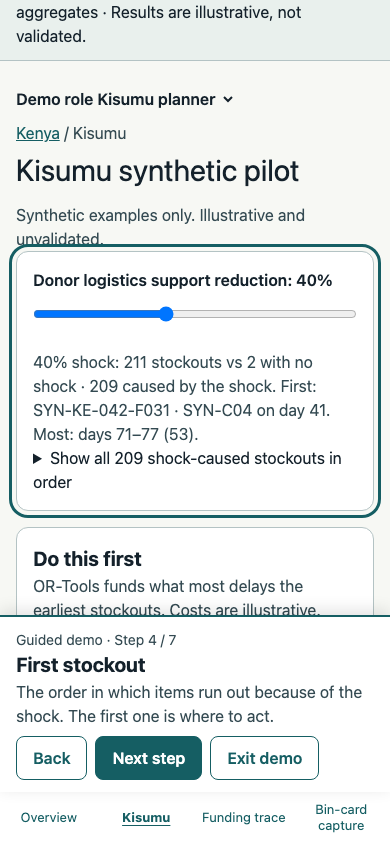
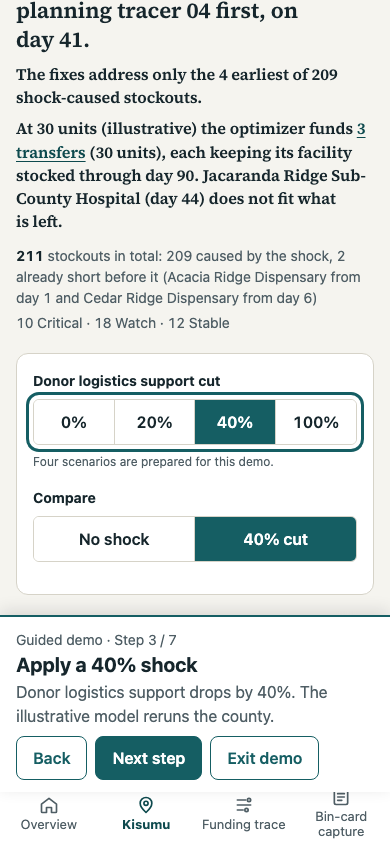
docs: recapture README screenshots and refresh the Swahili review list

diff --git a/docs/phases/3.md b/docs/phases/3.md
@@ -86,7 +86,7 @@ New Swahili strings for the redesign (keys `about*`, `scenario*`, `verdict*`, `f
 
 ### Swahili strings for native-speaker review
 
-No Swahili text in the interface has been reviewed by a native speaker. Every entry below needs review; placeholders such as `${...}` are filled from the configured values. Generated from `apps/web/src/preferences/preferences.tsx` and `apps/web/src/risk/risk.ts` on 2026-11-08.
+No Swahili text in the interface has been reviewed by a native speaker. Every entry below needs review; placeholders such as `{n}` and `${...}` are filled from the configured values. Generated from `apps/web/src/preferences/preferences.tsx`, `apps/web/src/kisumu/names.ts` and `apps/web/src/risk/risk.ts` on 2026-11-09. Facility names are invented proper names and stay in English; `whyTransferTo` and `whyEmergencyTo` stay English on purpose because they are inserted into the English-only optimizer explanation.
 
 | Key | English | Swahili |
 | --- | --- | --- |
@@ -99,7 +99,12 @@ No Swahili text in the interface has been reviewed by a native speaker. Every en
 | `navPrimary` | Primary | Urambazaji mkuu |
 | `navMobile` | Primary (mobile) | Urambazaji mkuu (simu) |
 | `kenya` | Kenya · County planning workspace | Kenya · Eneo la kupanga la kaunti |
-| `banner` | Synthetic demo data · Calibrated to public aggregates · Results are illustrative, not validated. | Data za majaribio zilizobuniwa · Zimepimwa kwa takwimu za jumla za umma · Matokeo ni ya mfano na hayajathibitishwa. |
+| `banner` | Facilities, names, locations and costs are invented. Results are illustrative, not validated. | Vituo, majina, maeneo na gharama ni vya kubuni. Matokeo ni ya mfano na hayajathibitishwa. |
+| `aboutLink` | About this demo | Kuhusu onyesho hili |
+| `aboutSandbox` | This is a stress-test sandbox, not a live monitoring system or a government system. | Hiki ni chombo cha majaribio ya mshtuko, si mfumo wa ufuatiliaji wa moja kwa moja wala mfumo wa serikali. |
+| `aboutInvented` | Facilities, names, coordinates, stock levels and costs are invented. Only some scale parameters (facility mix, lead times, demand and funding totals) are anchored to public aggregates, as documented in the project's data assumptions. Nothing is validated. | Vituo, majina, viwianishi, viwango vya akiba na gharama ni vya kubuni. Ni baadhi tu ya vigezo vya ukubwa (mchanganyiko wa vituo, muda wa kusubiri bidhaa, jumla za mahitaji na ufadhili) vinavyotegemea takwimu za jumla za umma, kama ilivyoandikwa katika dhana za data za mradi. Hakuna kilichothibitishwa. |
+| `aboutMethod` | Runs come from a reproducible generator (version 5, seed 42). OR-Tools ranks the fixes; the plain-language explanation only restates its result. | Majaribio yanatoka kwa jenereta inayorudiwa (toleo 5, mbegu 42). OR-Tools hupanga suluhisho; maelezo kwa lugha rahisi hurudia tu matokeo yake. |
+| `aboutTerms` | A stockout is one facility running out of one commodity within the 90-day run. Costs are illustrative units, not calibrated to real prices. | Kuisha kwa bidhaa ni kituo kimoja kukosa bidhaa moja ndani ya siku 90 za jaribio. Gharama ni vipimo vya mfano, havijapimwa kwa bei halisi. |
 | `syntheticNote` | Synthetic examples only. Illustrative and unvalidated. | Mifano iliyobuniwa pekee. Matokeo ni ya mfano na hayajathibitishwa. |
 | `gridTitle` | Kenya counties | Kaunti za Kenya |
 | `gridDescription` | Schematic, not to scale. Select a county for planning information. | Mchoro wa mfano, si kwa kipimo halisi. Chagua kaunti kuona taarifa za mipango. |
@@ -146,7 +151,145 @@ No Swahili text in the interface has been reviewed by a native speaker. Every en
 | `noStockout` | No stockout within the run horizon | Hakuna bidhaa inayoisha ndani ya kipindi cha uigaji |
 | `noRiskData` | No forecast or run is available | Hakuna utabiri au uigaji unaopatikana |
 | `drivers` | Driving commodities | Bidhaa zinazoamua hali |
-| `kisumuTitle` | Kisumu synthetic pilot | Majaribio yaliyobuniwa ya Kisumu |
+| `kisumuTitle` | Kisumu | Kisumu |
+| `scenarioNone` | No shock | Bila mshtuko |
+| `scenarioCut` | {n}% logistics cut | Upunguzaji wa usafirishaji wa {n}% |
+| `verdictLabel` | What breaks first | Kinachoharibika kwanza |
+| `verdictLoading` | Running the {n}% scenario… | Inaendesha hali ya {n}%… |
+| `verdictFraming` | Stress-testing Kisumu: what breaks first if donor logistics support is cut, and what is the cheapest fix? | Kupima Kisumu kwa mshtuko: nini kinaharibika kwanza msaada wa usafirishaji wa wafadhili ukipunguzwa, na suluhisho la bei nafuu zaidi ni lipi? |
+| `verdictNoShock` | With no shock, nothing new runs out within {h} days. | Bila mshtuko, hakuna bidhaa mpya inayoisha ndani ya siku {h}. |
+| `verdictLead` | A {n}% cut in donor logistics support causes {count} within {h} days; {place} runs out of {medicine} first, on day {day}. | Kupunguzwa kwa {n}% kwa msaada wa usafirishaji wa wafadhili kunasababisha {count} ndani ya siku {h}; {place} kinakosa {medicine} kwanza, siku ya {day}. |
+| `verdictNone` | A {n}% cut in donor logistics support causes no new stockouts within {h} days. | Kupunguzwa kwa {n}% kwa msaada wa usafirishaji wa wafadhili hakusababishi bidhaa mpya kuisha ndani ya siku {h}. |
+| `verdictStockouts` | {n} stockouts | matukio {n} ya kuisha kwa bidhaa |
+| `verdictStockout` | {n} stockout | tukio {n} la kuisha kwa bidhaa |
+| `verdictPlace` | {name} ({area}) | {name} ({area}) |
+| `verdictScopeEarliest` | The fixes address only the {n} earliest of {total} shock-caused stockouts. | Suluhisho zinashughulikia matukio {n} ya mapema zaidi tu kati ya {total} yaliyosababishwa na mshtuko. |
+| `verdictScopeSome` | The fixes address only {n} of {total} shock-caused stockouts (days {first} to {last}). | Suluhisho zinashughulikia matukio {n} tu kati ya {total} yaliyosababishwa na mshtuko (siku {first} hadi {last}). |
+| `verdictNothingToFix` | There is nothing to fix. | Hakuna cha kurekebisha. |
+| `verdictLate` | None of the {n} listed transfers can arrive in time: they arrive from day {arrival}, but their stockouts happen by day {day}. | Hakuna kati ya uhamisho {n} ulioorodheshwa unaoweza kufika kwa wakati: unafika kuanzia siku {arrival}, lakini bidhaa zinaisha kufikia siku {day}. |
+| `verdictUnavailable` | Stockout details are unavailable for this run. | Maelezo ya kuisha kwa bidhaa hayapatikani kwa jaribio hili. |
+| `factsTotal` | {total} stockouts in total: {caused} caused by the shock, {short} already short before it | Jumla ya matukio {total} ya kuisha kwa bidhaa: {caused} yamesababishwa na mshtuko, {short} yalikuwepo kabla yake |
+| `factsShortItem` | {name} from day {day} | {name} kuanzia siku {day} |
+| `factsStatus` | {critical} Critical · {watch} Watch · {stable} Stable | {critical} Hatari kubwa · {watch} Angalizo · {stable} Tulivu |
+| `and` | and | na |
+| `controlsLabel` | Scenario | Hali |
+| `shockPresets` | Donor logistics support cut | Kupunguzwa kwa msaada wa usafirishaji wa wafadhili |
+| `shockHint` | Four scenarios are prepared for this demo. | Hali nne zimeandaliwa kwa onyesho hili. |
+| `compare` | Compare | Linganisha |
+| `compareNone` | No shock | Bila mshtuko |
+| `compareShock` | {n}% cut | Upunguzaji wa {n}% |
+| `changeScenario` | Change scenario | Badilisha hali |
+| `hideScenario` | Hide scenario | Ficha hali |
+| `tabsLabel` | Kisumu views | Mionekano ya Kisumu |
+| `tabOverview` | Map and fixes | Ramani na suluhisho |
+| `tabOrder` | Stockout order | Mfuatano wa kuisha kwa bidhaa |
+| `tabFunding` | Funding trace | Ufuatiliaji wa ufadhili |
+| `tabFacilities` | Facilities | Vituo |
+| `orderTitle` | Stockout order | Mfuatano wa kuisha kwa bidhaa |
+| `orderSummary` | {scenario}: {total} stockouts in total. | {scenario}: jumla ya matukio {total} ya kuisha kwa bidhaa. |
+| `orderAlreadyShort` | Already short before the shock ({n}) | Ilikuwa na upungufu kabla ya mshtuko ({n}) |
+| `orderCaused` | Caused by the shock ({n}) | Yamesababishwa na mshtuko ({n}) |
+| `orderDay` | day {day} | siku ya {day} |
+| `orderFromDay` | from day {day} | kuanzia siku ya {day} |
+| `orderShowAll` | Show all {n} | Onyesha yote {n} |
+| `orderNoneShort` | No facility was short before the shock. | Hakuna kituo kilichokuwa na upungufu kabla ya mshtuko. |
+| `orderNoneCaused` | Nothing runs out because of the shock in this run. | Hakuna bidhaa inayoisha kutokana na mshtuko katika jaribio hili. |
+| `whereTitle` | Where it breaks | Kinapoharibika wapi |
+| `whereSub` | Each circle is one area: facilities out of at least one commodity by the selected day, out of all facilities there. | Kila duara ni eneo moja: vituo vilivyokosa angalau bidhaa moja kufikia siku iliyochaguliwa, kati ya vituo vyote vya eneo hilo. |
+| `timelineLabel` | Timeline | Mstari wa wakati |
+| `timelineBack` | Back one week | Rudi wiki moja |
+| `timelineForward` | Forward one week | Songa mbele wiki moja |
+| `timelinePlay` | Play the run | Cheza jaribio |
+| `timelinePause` | Pause the run | Simamisha jaribio |
+| `timelineDay` | Day of the {h}-day run | Siku ya jaribio la siku {h} |
+| `timelineReadout` | Day {day} of {h}: {soFar} of {total} stockouts so far, {out} of {facilities} facilities out of at least one commodity. | Siku {day} kati ya {h}: matukio {soFar} kati ya {total} ya kuisha hadi sasa, vituo {out} kati ya {facilities} vimekosa angalau bidhaa moja. |
+| `timelineModeled` | Modeled, no intervention. | Imeigwa, bila hatua yoyote. |
+| `areaMapLabel` | Kisumu areas with facilities out of stock by day {day} | Maeneo ya Kisumu yenye vituo vilivyokosa bidhaa kufikia siku {day} |
+| `areaLabel` | {area}: {out} of {n} facilities out by day {day} | {area}: vituo {out} kati ya {n} vimekosa bidhaa kufikia siku {day} |
+| `legendTitle` | Out by day {day}, of all facilities in the area | Vimekosa bidhaa kufikia siku {day}, kati ya vituo vyote vya eneo |
+| `legendNone` | None out | Hakuna kilichokosa |
+| `legendSome` | Some out | Baadhi vimekosa |
+| `legendAll` | All out | Vyote vimekosa |
+| `legendInvented` | Positions are invented. | Maeneo ni ya kubuni. |
+| `areasLabel` | Areas | Maeneo |
+| `areaRow` | {area}: {out} of {n} out by day {day} | {area}: {out} kati ya {n} vimekosa kufikia siku {day} |
+| `areaMixLabel` | Status over the whole run | Hali katika jaribio zima |
+| `areaMix` | Over the run: {critical} Critical · {watch} Watch · {stable} Stable | Katika jaribio: {critical} Hatari kubwa · {watch} Angalizo · {stable} Tulivu |
+| `filterLegend` | Filter facilities | Chuja vituo |
+| `filterStatus` | Status | Hali |
+| `filterCommodity` | Commodity | Bidhaa |
+| `allCommodities` | All commodities | Bidhaa zote |
+| `filterCount` | Showing {n} of {total} facilities. | Inaonyesha vituo {n} kati ya {total}. |
+| `filterEmpty` | No facilities match these filters. | Hakuna vituo vinavyolingana na vichujio hivi. |
+| `tableLabel` | Facilities table | Jedwali la vituo |
+| `tableCaption` | Status from the shown run: Critical up to day 45, Watch days 46–52, Stable after day 52. Illustrative cutoffs, not a standard. | Hali kutoka kwa jaribio linaloonyeshwa: Hatari kubwa hadi siku ya 45, Angalizo siku 46–52, Tulivu baada ya siku ya 52. Viwango vya mfano, si kiwango rasmi. |
+| `colFacility` | Facility | Kituo |
+| `colArea` | Area | Eneo |
+| `colStatus` | Status | Hali |
+| `colFirst` | First stockout | Kuisha kwa kwanza |
+| `detailLevel` | Level | Ngazi |
+| `detailLevelValue` | Level {n} | Ngazi {n} |
+| `detailStockouts` | Stockouts in this run ({n}) | Matukio ya kuisha katika jaribio hili ({n}) |
+| `detailStockout` | {medicine}: day {day} | {medicine}: siku ya {day} |
+| `detailIncoming` | Planted transfer: {medicine} from {donor}, {km} km away, arriving on day {day}. | Uhamisho uliopangwa: {medicine} kutoka {donor}, umbali wa km {km}, unafika siku ya {day}. |
+| `detailOutgoing` | Planted donor: {medicine} for {recipient}. | Mtoaji aliyepangwa: {medicine} kwa {recipient}. |
+| `fixesTitle` | Cheapest fixes | Suluhisho za gharama nafuu zaidi |
+| `fixesCoverEarliest` | the {n} earliest of {total} shock-caused stockouts | matukio {n} ya mapema zaidi kati ya {total} yaliyosababishwa na mshtuko |
+| `fixesCoverSome` | {n} of {total} shock-caused stockouts (days {first} to {last}) | matukio {n} kati ya {total} yaliyosababishwa na mshtuko (siku {first} hadi {last}) |
+| `fixesScope` | These options address {coverage}; the others have no option in this demo. | Chaguo hizi zinashughulikia {coverage}; mengine hayana chaguo katika onyesho hili. |
+| `fixesHow` | OR-Tools picks what fits the budget. Costs are illustrative units, not calibrated to real prices. | OR-Tools huchagua kinachotosha ndani ya bajeti. Gharama ni vipimo vya mfano, havijapimwa kwa bei halisi. |
+| `fixesBudget` | Budget (illustrative units) | Bajeti (vipimo vya mfano) |
+| `fixesBudgetNumber` | Budget in illustrative units | Bajeti kwa vipimo vya mfano |
+| `units` | {n} units | vipimo {n} |
+| `fixesLoading` | Loading the ranked fixes… | Inapakia suluhisho zilizopangwa… |
+| `fixesFirstRank` | Ranking fixes for {b} units… | Inapanga suluhisho kwa vipimo {b}… |
+| `fixesInFlight` | Updating the ranking for {b} units… Showing {r} units until it arrives. | Inasasisha mpangilio kwa vipimo {b}… Inaonyesha vipimo {r} hadi ufike. |
+| `fixesUsed` | {used} of {b} units used. | Vipimo {used} kati ya {b} vimetumika. |
+| `fixesNothingFits` | Nothing fits {b} units. The cheapest fix costs {c} units. | Hakuna kinachotosha vipimo {b}. Suluhisho la bei nafuu zaidi linagharimu vipimo {c}. |
+| `fixesFailed` | The ranking for {b} units could not be updated. The fixes below are for {r} units, the last budget that ranked. | Mpangilio wa vipimo {b} haukuweza kusasishwa. Suluhisho zilizo hapa chini ni za vipimo {r}, bajeti ya mwisho iliyopangwa. |
+| `fixesFailedFirst` | The ranking for {b} units could not be loaded. | Mpangilio wa vipimo {b} haukuweza kupakiwa. |
+| `fixesRefreshFailed` | The ranking for {b} units could not be refreshed. The fixes below are from the last ranking that arrived. | Mpangilio wa vipimo {b} haukuweza kuonyeshwa upya. Suluhisho zilizo hapa chini ni za mpangilio wa mwisho uliofika. |
+| `fixesRetry` | Try again | Jaribu tena |
+| `pairTitle` | {name}: {medicine} | {name}: {medicine} |
+| `pairMeta` | {area} · runs out on day {day} | {area} · inaisha siku ya {day} |
+| `pairSame` | if funded, either option keeps it {effect} | ikifadhiliwa, chaguo lolote linaiweka {effect} |
+| `effectHolds` | stocked through day {h} | na akiba hadi siku ya {h} |
+| `effectMoves` | stockout moves to day {day} | kuisha kunasogea hadi siku ya {day} |
+| `effectUnknown` | modeled effect unavailable | athari iliyoigwa haipatikani |
+| `optionTransfer` | Transfer | Uhamisho |
+| `optionVia` | from {name}, {km} km away | kutoka {name}, umbali wa km {km} |
+| `optionEmergency` | Emergency delivery | Uwasilishaji wa dharura |
+| `funded` | Funded | Imefadhiliwa |
+| `notFunded` | Not funded: {reason} | Haikufadhiliwa: {reason} |
+| `ifFunded` | if funded, {effect} | ikifadhiliwa, {effect} |
+| `reasonAlternative` | A cheaper option already covers this stockout | Chaguo la bei nafuu tayari linashughulikia tukio hili |
+| `reasonOverBudget` | Costs more than the whole budget | Inagharimu zaidi ya bajeti yote |
+| `reasonRemaining` | Does not fit in what is left of the budget | Haitoshi ndani ya bajeti iliyobaki |
+| `reasonNotSelected` | Not in the optimizer's best set | Haimo katika seti bora ya kiboreshaji |
+| `reasonDonor` | The donor and recipient choices conflict | Chaguo za mtoaji na mpokeaji zinakinzana |
+| `reasonInventory` | The shared synthetic inventory would be exceeded | Akiba ya pamoja ya mfano ingezidiwa |
+| `reasonUnknown` | reason unavailable | sababu haipatikani |
+| `whyTitle` | Why these picks? | Kwa nini chaguo hizi? |
+| `whySame` | Transfers and emergency deliveries give the same delay here, so the cheaper transfers are funded first. | Uhamisho na uwasilishaji wa dharura vinatoa ucheleweshaji uleule hapa, kwa hivyo uhamisho wa bei nafuu unafadhiliwa kwanza. |
+| `whyNone` | Nothing is funded: the cheapest option costs {c} units, more than the {b}-unit budget. | Hakuna kilichofadhiliwa: chaguo la bei nafuu zaidi linagharimu vipimo {c}, zaidi ya bajeti ya vipimo {b}. |
+| `whyGeneral` | The optimizer funds the set of options that delays stockouts the most within the budget. | Kiboreshaji kinafadhili seti ya chaguo inayochelewesha kuisha kwa bidhaa zaidi ndani ya bajeti. |
+| `whyTransferTo` | the transfer to {to} | the transfer to {to} |
+| `whyEmergencyTo` | emergency delivery to {to} | emergency delivery to {to} |
+| `fixesNoShockTitle` | With no shock, nothing to fix. | Bila mshtuko, hakuna cha kurekebisha. |
+| `fixesNoShock` | No stockouts are caused by the shock. | Hakuna bidhaa zinazoisha kutokana na mshtuko. |
+| `fixesLateTitle` | No transfer can arrive in time at this shock. | Hakuna uhamisho unaoweza kufika kwa wakati katika mshtuko huu. |
+| `budgetUnusedNone` | The budget is not used: no stockouts are caused by the shock. | Bajeti haitumiki: hakuna bidhaa zinazoisha kutokana na mshtuko. |
+| `budgetUnusedLate` | The budget is not used at this shock: no transfer can arrive in time. | Bajeti haitumiki katika mshtuko huu: hakuna uhamisho unaoweza kufika kwa wakati. |
+| `verdictBudget` | At {b} units (illustrative) the optimizer funds {funded} ({cost} units){hold}. | Kwa vipimo {b} (vya mfano) kiboreshaji kinafadhili {funded} (vipimo {cost}){hold}. |
+| `verdictTransfers` | {n} transfers | uhamisho {n} |
+| `verdictTransfer` | {n} transfer | uhamisho {n} |
+| `verdictFixesN` | {n} fixes | suluhisho {n} |
+| `verdictFixN` | {n} fix | suluhisho {n} |
+| `verdictHoldEach` | , each keeping its facility stocked through day {h} | , kila mmoja ukiweka kituo chake na akiba hadi siku ya {h} |
+| `verdictHoldOne` | , keeping its facility stocked through day {h} | , ukiweka kituo chake na akiba hadi siku ya {h} |
+| `verdictCutOne` | {name} (day {day}) does not fit what is left. | {name} (siku ya {day}) haitoshi katika kilichobaki. |
+| `verdictCutMany` | {n} other transfers do not fit what is left. | Uhamisho mwingine {n} hautoshi katika kilichobaki. |
+| `verdictNothingFits` | At {b} units (illustrative), nothing fits the budget; the cheapest fix costs {c} units. | Kwa vipimo {b} (vya mfano), hakuna kinachotosha bajeti; suluhisho la bei nafuu zaidi linagharimu vipimo {c}. |
 | `shockLabel` | Donor logistics support reduction | Kupungua kwa msaada wa usafirishaji wa wafadhili |
 | `baseline` | No-shock baseline | Msingi bila mshtuko |
 | `scenarioRunning` | Running illustrative scenario… | Inaendesha uigaji wa mfano… |
@@ -291,17 +434,11 @@ No Swahili text in the interface has been reviewed by a native speaker. Every en
 | `overviewLoading` | Loading your overview… | Inapakia muhtasari wako… |
 | `overviewError` | Overview unavailable. Try again. | Muhtasari haupatikani. Jaribu tena. |
 | `skip` | Skip to content | Nenda kwenye maudhui |
-
-Risk legend (`riskLegend` in `apps/web/src/risk/risk.ts`):
-
-- Hatari kubwa: bidhaa imeisha au itaisha ndani ya siku ${RISK_THRESHOLDS.criticalDays}
-- Angalizo: siku ${RISK_THRESHOLDS.criticalDays + 1}–${RISK_THRESHOLDS.watchDays}
-- Tulivu: bidhaa haitaisha ndani ya siku ${RISK_THRESHOLDS.watchDays}
-- Haijulikani: hakuna utabiri au uigaji
-- Lebo zinahusiana na kipindi cha uigaji cha siku ${RISK_THRESHOLDS.horizonDays}. Viwango vilirekebishwa ili mfano huu wa kubuni usomeke; si kiwango rasmi.
-- Viwango ni vya mfano, si viwango vya kitabibu au kiutendaji.
-
-Also review: the optimizer explanation is English only; in Swahili mode the interface shows “Maelezo yanapatikana kwa Kiingereza pekee. Explanation available in English only.” and marks the paragraph `lang="en"`. The explanation templates listed above under “Explanation sentences for native-speaker review” have no Swahili version yet.
+| `names.ts antimalarial` | Antimalarial | Dawa ya malaria |
+| `names.ts malaria_diagnostic` | Malaria test | Kipimo cha malaria |
+| `names.ts family_planning` | Family planning | Uzazi wa mpango |
+| `names.ts antiretroviral` | Antiretroviral | Dawa ya ARV |
+| `names.ts tracer label` | Family planning tracer 04 | Uzazi wa mpango (kifuatiliaji 04) |
 
 ### Checkpoint C review checklist
 

diff --git a/README.md b/README.md
@@ -28,14 +28,16 @@ All screens show synthetic data; every number is illustrative and unvalidated.
 
 | | |
 | --- | --- |
-| ![National overview with the guided demo open](docs/screenshots/readme-overview-tour-1280.png) | ![Ranked fixes: funded transfers above the budget cut line, unfunded actions below it](docs/screenshots/readme-ranked-fix-1280.png) |
-| National overview with the guided demo (1280 px) | Ranked fixes at 30 units: three transfers funded, the fourth cut by the remaining budget |
-| ![Funding trace with the stalled stage marked](docs/screenshots/readme-funding-trace-1280.png) | ![Shock card with the stockout summary](docs/screenshots/readme-first-stockout-1280.png) |
-| Funding trace: stage bar stalled at Released; 100,000 KES approved, not released, 90 days | Shock summary at 40%: first stockout and busiest week |
-| ![Facility map at a 40% shock with clusters and counts](docs/screenshots/readme-map-40-1280.png) | ![Kisumu on a phone with the bottom navigation bar](docs/screenshots/readme-mobile-nav-390.png) |
-| Facility map at 40%: each cluster shows its status mix; the counts line gives 10 Critical, 18 Watch, 12 Stable | Kisumu at 390 px with the bottom navigation bar |
-| ![Guided demo on a phone](docs/screenshots/readme-tour-mobile-390.png) | ![Bin-card capture awaiting human confirmation](docs/screenshots/readme-capture-confirm-390.png) |
-| Guided demo at 390 px, above the bottom bar | Bin-card capture: nothing is saved until “Confirm and save” |
+| ![Kisumu verdict: what breaks first, how far the fixes reach and the cheapest fix](docs/screenshots/readme-verdict-1280.png) | ![Cheapest fixes: budget slider, cut line and paired options](docs/screenshots/readme-ranked-fix-1280.png) |
+| Kisumu at 40%: the verdict, scenario presets and tabs (1280 px) | Cheapest fixes at 30 units: three transfers funded, the fourth cut by what is left of the budget |
+| ![Where it breaks: timeline and schematic area map at day 45](docs/screenshots/readme-timeline-1280.png) | ![Funding trace with the stalled stage marked](docs/screenshots/readme-funding-trace-1280.png) |
+| Where it breaks at day 45: week steps, play and facilities out per area (positions invented) | Funding trace: stage bar stalled at Released; 100,000 KES approved, not released, 90 days |
+| ![Facility map at a 40% shock with clusters and counts](docs/screenshots/readme-map-40-1280.png) | ![National overview with the guided demo open](docs/screenshots/readme-overview-tour-1280.png) |
+| Facilities tab, facility map at 40%: clusters show their status mix; 10 Critical, 18 Watch, 12 Stable | National overview with the guided demo (1280 px) |
+| ![Kisumu on a phone: verdict first, Change scenario on the first screen](docs/screenshots/readme-mobile-nav-390.png) | ![Guided demo on a phone at the shock step](docs/screenshots/readme-tour-mobile-390.png) |
+| Kisumu at 390 px: the verdict first, Change scenario on the first screen, bottom navigation bar | Guided demo at 390 px: the shock step opens the scenario presets |
+| ![Bin-card capture awaiting human confirmation](docs/screenshots/readme-capture-confirm-390.png) | |
+| Bin-card capture: nothing is saved until “Confirm and save” | |
 
 ## Local quickstart
 
@@ -94,7 +96,7 @@ See [agent rules](AGENTS.md), [current progress](docs/PROGRESS.md), [design appr
 - **Risk cutoffs are tuned, not a standard.** Map labels use Critical within 45 days, Watch 46–52 and Stable beyond 52. These cutoffs were tuned to make this synthetic scenario readable, are relative to the 90-day simulation horizon, and are not a standard. A facility takes the status of its worst commodity.
 - **Map clusters show a mix of statuses.** The invented facilities sit in clusters of five or six within about 300 m of each other, so at county zoom their markers would stack. The map therefore groups them into one cluster labeled with its size and status mix (for example “6 · 2 Crit · 2 Watch · 2 Stable”) and the worst-status symbol. Groups merge until no two labels overlap, so on a phone most of the county is one cluster; Enter or a click zooms in step by step until facilities separate. The counts line under the legend always gives the full split.
 - **Four mobile destinations, not five.** The phone bottom bar links Overview, Kisumu, Funding trace and Bin-card capture. The approved design's five destinations include Scenarios, Actions and Stock, which are not built yet.
-- **Kisumu page-load performance is below budget.** Lighthouse page load scores 1.00 on `/` but 0.73–0.74 on `/kisumu` (accessibility and best practices 1.00, layout shift 0, total blocking time about 150 ms), under the 0.80 budget. The cause is Largest Contentful Paint (about 9.9 s under Lighthouse's simulated throttling; about 2 s in an unthrottled browser): the page's largest text is the data-driven verdict, which can only appear once the backend scenario run completes (session, pilot panel, run submission and polling, in sequence). The page shows the title and the framing question at full size immediately and reserves the verdict's space, but the browser still counts the verdict text as the largest paint when it replaces the framing. Faster runs need backend changes (for example reusing a completed run for the same inputs), which were out of scope for the redesign. Interactive use is not affected: moving the budget and the timeline scores 1.00 with layout shift 0.000. The flow is not in CI. See [progress](docs/PROGRESS.md) and [Phase 3 notes](docs/phases/3.md).
+- **Kisumu page-load performance is below budget.** Lighthouse page load scores 1.00 on `/` but 0.73–0.75 on `/kisumu` (accessibility and best practices 1.00, layout shift 0, total blocking time 90–150 ms), under the 0.80 budget. The cause is Largest Contentful Paint (about 9.9 s under Lighthouse's simulated throttling; about 2 s in an unthrottled browser): the page's largest text is the data-driven verdict, which can only appear once the backend scenario run completes (session, pilot panel, run submission and polling, in sequence). The page shows the title and the framing question at full size immediately and reserves the verdict's space, but the browser still counts the verdict text as the largest paint when it replaces the framing. Faster runs need backend changes (for example reusing a completed run for the same inputs), which were out of scope for the redesign. Interactive use is not affected: moving the budget and the timeline scores 1.00 with layout shift 0.000. The flow is not in CI. See [progress](docs/PROGRESS.md) and [Phase 3 notes](docs/phases/3.md).
 
 ## Next steps
 
